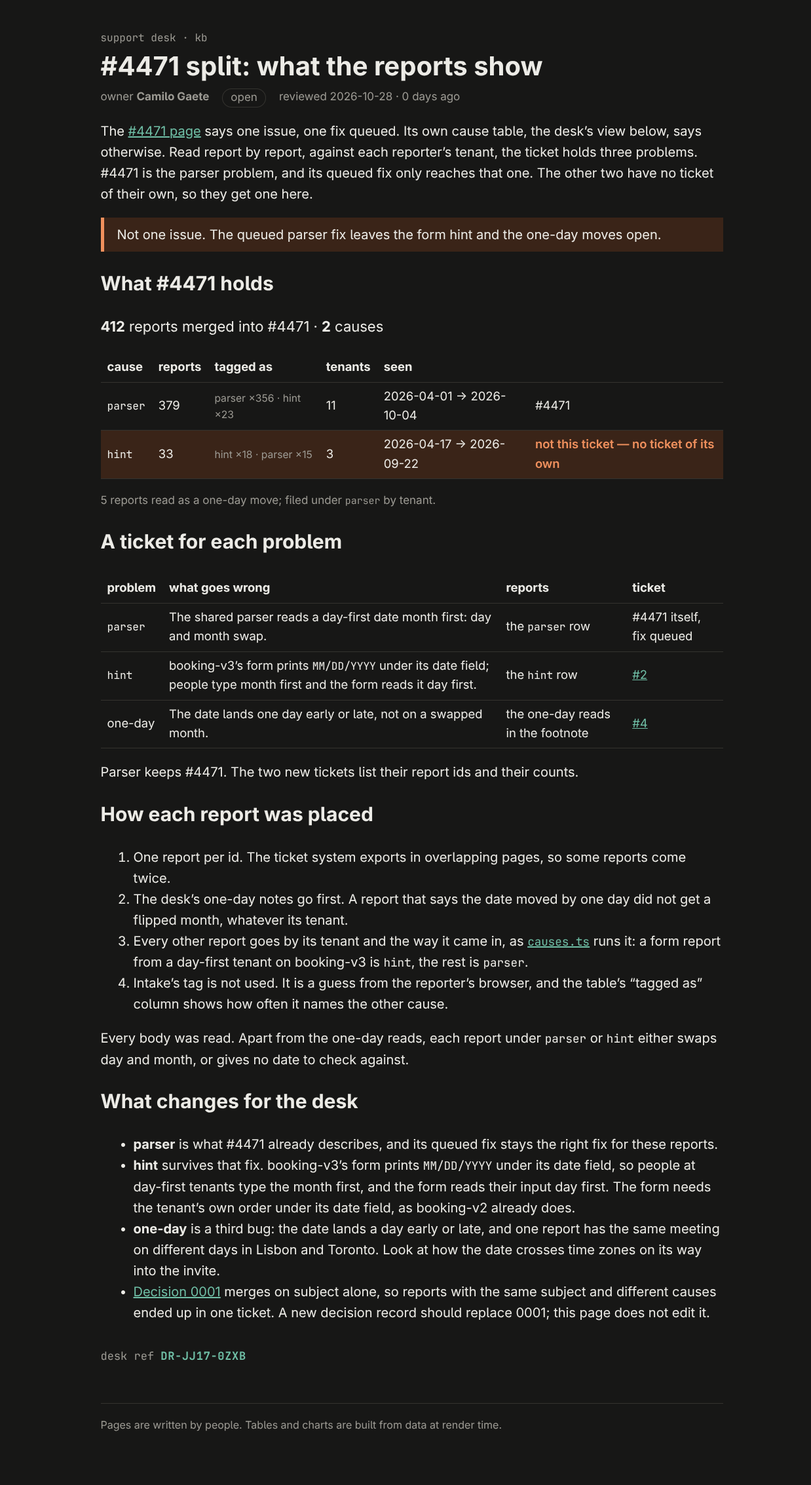
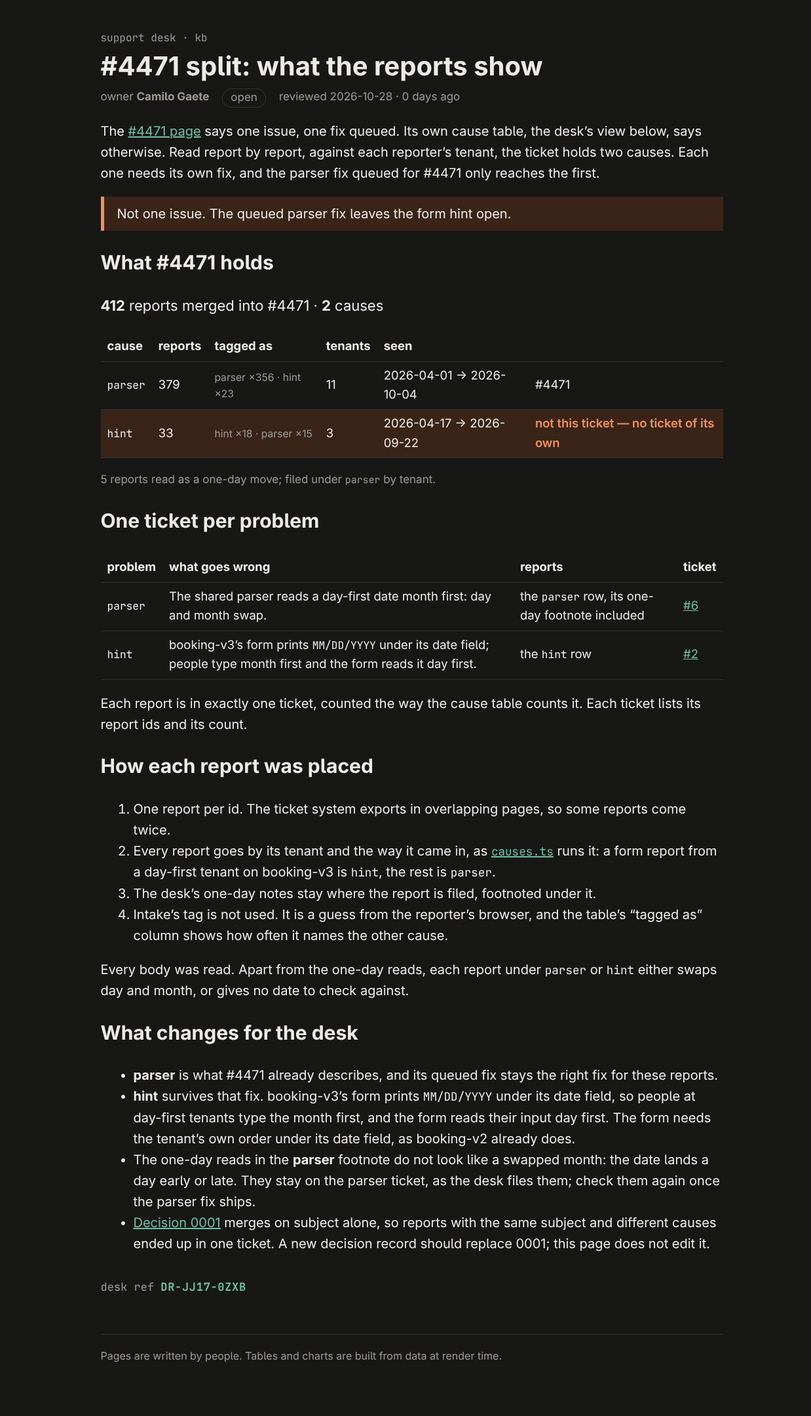
Ticket #4471's two causes as the desk counts them: parser #6, hint #2
The page renders the desk's CauseTable on the data as exported and links
the parser ticket (379, one-day reads footnoted) and the hint ticket (33).

diff --git a/support-kb/rendered/kb/incidents/4471-split/index.html b/support-kb/rendered/kb/incidents/4471-split/index.html
@@ -9,11 +9,11 @@
 		<link href="../../../_app/immutable/chunks/B2Ul7l_u.js" rel="modulepreload">
 		<link href="../../../_app/immutable/chunks/BCPXOG7W.js" rel="modulepreload">
 		<link href="../../../_app/immutable/chunks/Dh1V97Jm.js" rel="modulepreload">
-		<link href="../../../_app/immutable/entry/app.C3Lp46rr.js" rel="modulepreload">
+		<link href="../../../_app/immutable/entry/app.C_sr0qF5.js" rel="modulepreload">
 		<link href="../../../_app/immutable/nodes/0.BurGglGN.js" rel="modulepreload">
 		<link href="../../../_app/immutable/chunks/DK3Fl9T5.js" rel="modulepreload">
-		<link href="../../../_app/immutable/nodes/5.AkbkxesP.js" rel="modulepreload">
-		<link href="../../../_app/immutable/chunks/D52QHIaR.js" rel="modulepreload">
+		<link href="../../../_app/immutable/nodes/5.D-1oarsp.js" rel="modulepreload">
+		<link href="../../../_app/immutable/chunks/BPZfQJSE.js" rel="modulepreload">
 		<link href="../../../_app/immutable/chunks/BTPwLomz.js" rel="modulepreload">
 		<link href="../../../_app/immutable/chunks/D_eX76ox.js" rel="modulepreload">
 		<link href="../../../_app/immutable/chunks/BIy4WKJS.js" rel="modulepreload">
@@ -26,31 +26,30 @@
   <body data-sveltekit-preload-data="hover">
     <div style="display: contents"><!--[--><!--[--><!--[0--><!--[--><!--[--><!--[-1--><!--[--><div class="kb svelte-e2jw2j"><header><a class="crumb svelte-e2jw2j" href="/kb">support desk · kb</a> <h1 class="svelte-e2jw2j">#4471 split: what the reports show</h1> <p class="meta svelte-e2jw2j"><span>owner <b>Camilo Gaete</b></span> <span class="status open svelte-e2jw2j">open</span> <span class="svelte-e2jw2j">reviewed 2026-10-28 · 0 days ago</span></p></header> <!--[-1--><!--]--> <main><p>The <a href="/kb/incidents/4471">#4471 page</a> says one issue, one fix queued. Its own cause table, the
 desk’s view below, says otherwise. Read report by report, against each reporter’s tenant, the
-ticket holds three problems. #4471 is the parser problem, and its queued fix only reaches that one.
-The other two have no ticket of their own, so they get one here.</p> <aside class="warn svelte-17bri61"><!---->Not one issue. The queued parser fix leaves the form hint and the one-day moves open.<!----></aside><!----> <h2>What #4471 holds</h2> <p class="sum svelte-12oyimm"><strong>412</strong> reports merged into #4471 · <strong>2</strong> causes</p> <table><thead><tr><th>cause</th><th>reports</th><th>tagged as</th><th>tenants</th><th>seen</th><th></th></tr></thead><tbody><!--[--><tr class="svelte-12oyimm"><td class="svelte-12oyimm"><code>parser</code></td><td class="svelte-12oyimm">379</td><td class="tags svelte-12oyimm">parser ×356 · hint ×23</td><td class="svelte-12oyimm">11</td><td class="svelte-12oyimm">2026-04-01 → 2026-10-04</td><td class="svelte-12oyimm">#4471</td></tr><tr class="svelte-12oyimm wrong"><td class="svelte-12oyimm"><code>hint</code></td><td class="svelte-12oyimm">33</td><td class="tags svelte-12oyimm">hint ×18 · parser ×15</td><td class="svelte-12oyimm">3</td><td class="svelte-12oyimm">2026-04-17 → 2026-09-22</td><td class="svelte-12oyimm">not this ticket — no ticket of its own</td></tr><!--]--></tbody></table> <!--[--><!--[0--><p class="note svelte-12oyimm">5 reports read as a one-day move; filed under <code>parser</code> by tenant.</p><!--]--><!--[-1--><!--]--><!--]--><!----> <h2>A ticket for each problem</h2> <table><thead><tr><th>problem</th><th>what goes wrong</th><th>reports</th><th>ticket</th></tr></thead><tbody><tr><td><code>parser</code></td><td>The shared parser reads a day-first date month first: day and month swap.</td><td>the <code>parser</code> row</td><td>#4471 itself, fix queued</td></tr><tr><td><code>hint</code></td><td>booking-v3’s form prints <code>MM/DD/YYYY</code> under its date field; people type month first and the form reads it day first.</td><td>the <code>hint</code> row</td><td><a href="https://github.com/CamiloGaete/support-kb-4471/issues/2" rel="nofollow">#2</a></td></tr><tr><td>one-day</td><td>The date lands one day early or late, not on a swapped month.</td><td>the one-day reads in the footnote</td><td><a href="https://github.com/CamiloGaete/support-kb-4471/issues/4" rel="nofollow">#4</a></td></tr></tbody></table> <p>Parser keeps #4471. The two new tickets list their report ids and their counts.</p> <h2>How each report was placed</h2> <ol><li>One report per id. The ticket system exports in overlapping pages, so some reports come twice.</li> <li>The desk’s one-day notes go first. A report that says the date moved by one day did not get a
-flipped month, whatever its tenant.</li> <li>Every other report goes by its tenant and the way it came in, as <a href="https://github.com/CamiloGaete/support-kb-4471/blob/main/support-kb/src/lib/kb/causes.ts" rel="nofollow"><code>causes.ts</code></a> runs it: a form report from a day-first tenant on booking-v3 is <code>hint</code>, the rest is <code>parser</code>.</li> <li>Intake’s tag is not used. It is a guess from the reporter’s browser, and the table’s “tagged
+ticket holds two causes. Each one needs its own fix, and the parser fix queued for #4471 only
+reaches the first.</p> <aside class="warn svelte-17bri61"><!---->Not one issue. The queued parser fix leaves the form hint open.<!----></aside><!----> <h2>What #4471 holds</h2> <p class="sum svelte-12oyimm"><strong>412</strong> reports merged into #4471 · <strong>2</strong> causes</p> <table><thead><tr><th>cause</th><th>reports</th><th>tagged as</th><th>tenants</th><th>seen</th><th></th></tr></thead><tbody><!--[--><tr class="svelte-12oyimm"><td class="svelte-12oyimm"><code>parser</code></td><td class="svelte-12oyimm">379</td><td class="tags svelte-12oyimm">parser ×356 · hint ×23</td><td class="svelte-12oyimm">11</td><td class="svelte-12oyimm">2026-04-01 → 2026-10-04</td><td class="svelte-12oyimm">#4471</td></tr><tr class="svelte-12oyimm wrong"><td class="svelte-12oyimm"><code>hint</code></td><td class="svelte-12oyimm">33</td><td class="tags svelte-12oyimm">hint ×18 · parser ×15</td><td class="svelte-12oyimm">3</td><td class="svelte-12oyimm">2026-04-17 → 2026-09-22</td><td class="svelte-12oyimm">not this ticket — no ticket of its own</td></tr><!--]--></tbody></table> <!--[--><!--[0--><p class="note svelte-12oyimm">5 reports read as a one-day move; filed under <code>parser</code> by tenant.</p><!--]--><!--[-1--><!--]--><!--]--><!----> <h2>One ticket per problem</h2> <table><thead><tr><th>problem</th><th>what goes wrong</th><th>reports</th><th>ticket</th></tr></thead><tbody><tr><td><code>parser</code></td><td>The shared parser reads a day-first date month first: day and month swap.</td><td>the <code>parser</code> row, its one-day footnote included</td><td><a href="https://github.com/CamiloGaete/support-kb-4471/issues/6" rel="nofollow">#6</a></td></tr><tr><td><code>hint</code></td><td>booking-v3’s form prints <code>MM/DD/YYYY</code> under its date field; people type month first and the form reads it day first.</td><td>the <code>hint</code> row</td><td><a href="https://github.com/CamiloGaete/support-kb-4471/issues/2" rel="nofollow">#2</a></td></tr></tbody></table> <p>Each report is in exactly one ticket, counted the way the cause table counts it. Each ticket lists its report ids and its count.</p> <h2>How each report was placed</h2> <ol><li>One report per id. The ticket system exports in overlapping pages, so some reports come twice.</li> <li>Every report goes by its tenant and the way it came in, as <a href="https://github.com/CamiloGaete/support-kb-4471/blob/main/support-kb/src/lib/kb/causes.ts" rel="nofollow"><code>causes.ts</code></a> runs it: a form report from a day-first tenant on booking-v3 is <code>hint</code>, the rest is <code>parser</code>.</li> <li>The desk’s one-day notes stay where the report is filed, footnoted under it.</li> <li>Intake’s tag is not used. It is a guess from the reporter’s browser, and the table’s “tagged
 as” column shows how often it names the other cause.</li></ol> <p>Every body was read. Apart from the one-day reads, each report under <code>parser</code> or <code>hint</code> either
 swaps day and month, or gives no date to check against.</p> <h2>What changes for the desk</h2> <ul><li><strong>parser</strong> is what #4471 already describes, and its queued fix stays the right fix for these
 reports.</li> <li><strong>hint</strong> survives that fix. booking-v3’s form prints <code>MM/DD/YYYY</code> under its date field, so
 people at day-first tenants type the month first, and the form reads their input day first.
-The form needs the tenant’s own order under its date field, as booking-v2 already does.</li> <li><strong>one-day</strong> is a third bug: the date lands a day early or late, and one report has the same
-meeting on different days in Lisbon and Toronto. Look at how the date crosses time zones on
-its way into the invite.</li> <li><a href="/kb/decisions/0001-dedupe-by-subject">Decision 0001</a> merges on subject alone, so reports with
+The form needs the tenant’s own order under its date field, as booking-v2 already does.</li> <li>The one-day reads in the <strong>parser</strong> footnote do not look like a swapped month: the date lands a
+day early or late. They stay on the parser ticket, as the desk files them; check them again once
+the parser fix ships.</li> <li><a href="/kb/decisions/0001-dedupe-by-subject">Decision 0001</a> merges on subject alone, so reports with
 the same subject and different causes ended up in one ticket. A new decision record should
 replace 0001; this page does not edit it.</li></ul> <!--[0--><p class="stamp svelte-1280m42">desk ref <b class="svelte-1280m42">DR-JJ17-0ZXB</b></p><!--]--><!----><!----></main> <footer class="svelte-e2jw2j">Pages are written by people. Tables and charts are built from data at render time.</footer></div><!--]--><!--]--><!--]--><!----><!--]--><!--]--><!--]--><!----> <!--[-1--><!--]--><!--]-->
 			
 			<script>
 				{
-					__sveltekit_wgc9xv = {
+					__sveltekit_1m9sfx6 = {
 						base: new URL("../../..", location).pathname.slice(0, -1),
-						version: "1793222835152"
+						version: "1793223829377"
 					};
 
 					const element = document.currentScript.parentElement;
 
 					import("../../../_app/immutable/entry/start.CH5w6lId.js").then(async (kit) => {
-						kit.init(__sveltekit_wgc9xv);
-						const app = await import("../../../_app/immutable/entry/app.C3Lp46rr.js");
+						kit.init(__sveltekit_1m9sfx6);
+						const app = await import("../../../_app/immutable/entry/app.C_sr0qF5.js");
 						kit.start(app, element, {
 							node_ids: [0, 5],
 							data: [null,null],

diff --git a/support-kb/rendered/_app/immutable/chunks/BPZfQJSE.js b/support-kb/rendered/_app/immutable/chunks/BPZfQJSE.js
@@ -1,0 +1,13 @@
+import{t as e}from"./DK3Fl9T5.js";import{E as t,F as n,H as r,I as i,K as a,L as o,N as s,O as c,R as l,S as u,T as d,U as f,W as p,_ as m,k as h,q as g,r as _,t as v,w as y}from"./BCPXOG7W.js";import{t as b}from"./BTPwLomz.js";import{t as x}from"./D_eX76ox.js";import{t as S}from"./BIy4WKJS.js";var C=`0123456789ABCDEFGHJKMNPQRSTVWXYZ`;function w(e,t){let n=t>>>0;for(let t=0;t<e.length;t++)n^=e.charCodeAt(t),n=Math.imul(n,16777619)>>>0;return n}function T(e){let t=e.trim(),n=w(t,2166136261),r=w(t,2654435769),i=BigInt(n)<<8n|BigInt(r&255),a=``;for(let e=0;e<8;e++)a=C[Number(i&31n)]+a,i>>=5n;return`DR-${a.slice(0,4)}-${a.slice(4)}`}var E=t(`<p class="stamp svelte-1280m42">desk ref <b class="svelte-1280m42"> </b></p>`),D=t(`<p class="stamp missing svelte-1280m42">no desk ref: this page isn't signed (no <code>signature</code> in its frontmatter)</p>`);function O(e,t){p(t,!0);let a=r(()=>t.signature?T(t.signature):null);var c=d(),_=i(c),v=e=>{var t=E(),r=l(n(t)),i=o(r,!0);g(t),s(()=>u(i,h(a))),y(e,t)},b=e=>{var t=D();y(e,t)};m(_,e=>{h(a)?e(v):e(b,-1)}),y(e,c),f()}var k=e({default:()=>R,metadata:()=>A}),A={layout:`runbook`,title:`#4471 split: what the reports show`,owner:`Camilo Gaete`,status:`open`,reviewed:`2026-10-28T00:00:00.000Z`,signature:`v1.eyJzdWIiOiIzMDIiLCJhdWQiOiJjaGFsbGVuZ2U6d2hhdC1pdC1zaG93cyIsImlhdCI6MTc5MzIxODI1NywiZXhwIjoxNzkzMzA0NjU3fQ.ib5O7nSz4A4s80pjVwiKF3khW6C-5l8RFRv_YjpKHjs`},{layout:j,title:M,owner:N,status:P,reviewed:F,signature:I}=A,L=t(`<p>The <a href="/kb/incidents/4471">#4471 page</a> says one issue, one fix queued. Its own cause table, the
+desk’s view below, says otherwise. Read report by report, against each reporter’s tenant, the
+ticket holds two causes. Each one needs its own fix, and the parser fix queued for #4471 only
+reaches the first.</p> <!> <h2>What #4471 holds</h2> <!> <h2>One ticket per problem</h2> <table><thead><tr><th>problem</th><th>what goes wrong</th><th>reports</th><th>ticket</th></tr></thead><tbody><tr><td><code>parser</code></td><td>The shared parser reads a day-first date month first: day and month swap.</td><td>the <code>parser</code> row, its one-day footnote included</td><td><a href="https://github.com/CamiloGaete/support-kb-4471/issues/6" rel="nofollow">#6</a></td></tr><tr><td><code>hint</code></td><td>booking-v3’s form prints <code>MM/DD/YYYY</code> under its date field; people type month first and the form reads it day first.</td><td>the <code>hint</code> row</td><td><a href="https://github.com/CamiloGaete/support-kb-4471/issues/2" rel="nofollow">#2</a></td></tr></tbody></table> <p>Each report is in exactly one ticket, counted the way the cause table counts it. Each ticket lists its report ids and its count.</p> <h2>How each report was placed</h2> <ol><li>One report per id. The ticket system exports in overlapping pages, so some reports come twice.</li> <li>Every report goes by its tenant and the way it came in, as <a href="https://github.com/CamiloGaete/support-kb-4471/blob/main/support-kb/src/lib/kb/causes.ts" rel="nofollow"><code>causes.ts</code></a> runs it: a form report from a day-first tenant on booking-v3 is <code>hint</code>, the rest is <code>parser</code>.</li> <li>The desk’s one-day notes stay where the report is filed, footnoted under it.</li> <li>Intake’s tag is not used. It is a guess from the reporter’s browser, and the table’s “tagged
+as” column shows how often it names the other cause.</li></ol> <p>Every body was read. Apart from the one-day reads, each report under <code>parser</code> or <code>hint</code> either
+swaps day and month, or gives no date to check against.</p> <h2>What changes for the desk</h2> <ul><li><strong>parser</strong> is what #4471 already describes, and its queued fix stays the right fix for these
+reports.</li> <li><strong>hint</strong> survives that fix. booking-v3’s form prints <code>MM/DD/YYYY</code> under its date field, so
+people at day-first tenants type the month first, and the form reads their input day first.
+The form needs the tenant’s own order under its date field, as booking-v2 already does.</li> <li>The one-day reads in the <strong>parser</strong> footnote do not look like a swapped month: the date lands a
+day early or late. They stay on the parser ticket, as the desk files them; check them again once
+the parser fix ships.</li> <li><a href="/kb/decisions/0001-dedupe-by-subject">Decision 0001</a> merges on subject alone, so reports with
+the same subject and different causes ended up in one ticket. A new decision record should
+replace 0001; this page does not edit it.</li></ul> <!>`,1);function R(e,t){let n=v(t,[`children`,`$$slots`,`$$events`,`$$legacy`]);b(e,_(()=>n,()=>A,{children:(e,t)=>{var n=L(),r=l(i(n),2);S(r,{kind:`warn`,children:(e,t)=>{a();var n=c(`Not one issue. The queued parser fix leaves the form hint open.`);y(e,n)},$$slots:{default:!0}});var o=l(r,4);x(o,{ticket:4471}),O(l(o,18),{get signature(){return I}}),y(e,n)},$$slots:{default:!0}}))}export{R as n,k as t};

diff --git a/support-kb/rendered/_app/immutable/nodes/2.9bZl3wtz.js b/support-kb/rendered/_app/immutable/nodes/2.9bZl3wtz.js
@@ -1,0 +1,2 @@
+import{E as e,F as t,I as n,K as r,L as i,N as a,R as o,S as s,U as c,W as l,c as u,d,h as f,i as p,k as m,q as h,r as g,t as _,w as v}from"../chunks/BCPXOG7W.js";import{n as y,r as b,t as x}from"../chunks/BTPwLomz.js";import{t as S}from"../chunks/YX22L_Ud.js";import{t as C}from"../chunks/C7NBqcQG.js";import{t as w}from"../chunks/BPZfQJSE.js";import{t as T}from"../chunks/BGqJVSDw.js";var E=e(`<tr><td><a> </a></td><td> </td><td> </td><td> </td></tr>`),D=e(`<table><thead><tr><th>page</th><th>owner</th><th>status</th><th>reviewed</th></tr></thead><tbody></tbody></table>`);function O(e,n){l(n,!1);let r=Object.entries(Object.assign({"/src/routes/kb/decisions/0001-dedupe-by-subject/+page.svx":S,"/src/routes/kb/incidents/4471/+page.svx":C,"/src/routes/kb/incidents/4471-split/+page.svx":w,"/src/routes/kb/triage/dedupe/+page.svx":T})).map(([e,t])=>({href:e.replace(`/src/routes`,``).replace(`/+page.svx`,``),...t.metadata})).sort((e,t)=>e.href.localeCompare(t.href));p();var g=D(),_=o(t(g));f(_,5,()=>r,e=>e.href,(e,n)=>{var r=E(),c=t(r),l=t(c),f=i(l,!0);h(c);var p=o(c),g=i(p,!0),_=o(p),x=i(_,!0),S=o(_);let C;var w=i(S,!0);h(r),a((e,t)=>{u(l,`href`,m(n).href),s(f,m(n).title),s(g,m(n).owner),s(x,m(n).status),C=d(S,1,`svelte-tbc1ha`,null,C,{stale:e}),s(w,t)},[()=>y(m(n).reviewed)>180,()=>b(m(n).reviewed)]),v(e,r)}),h(_),h(g),v(e,g),c()}var k={layout:`runbook`,title:`Support knowledge base`,owner:`support desk`,status:`living`,reviewed:`2026-09-28T00:00:00.000Z`},{layout:A,title:j,owner:M,status:N,reviewed:P}=k,F=e(`<p>What the support desk knows, kept next to the code that knows it. One desk, every product: <code>sched-prod</code> (calendar invites for about 300k people) and the rest. When something breaks, the reports land here first.</p> <p>Start with <a href="/kb/triage/dedupe">triage</a> if you are new on the desk.</p> <h2>Pages</h2> <!> <h2>Writing a page</h2> <p>Keep the words here and the logic in <code>src/lib</code>. A number that can be computed should be
+computed by a component, not typed into a paragraph.</p>`,1);function I(e,t){let i=_(t,[`children`,`$$slots`,`$$events`,`$$legacy`]);x(e,g(()=>i,()=>k,{children:(e,t)=>{var i=F();O(o(n(i),6),{}),r(4),v(e,i)},$$slots:{default:!0}}))}export{I as component};

diff --git a/support-kb/rendered/kb/index.html b/support-kb/rendered/kb/index.html
@@ -9,16 +9,16 @@
 		<link href="../_app/immutable/chunks/B2Ul7l_u.js" rel="modulepreload">
 		<link href="../_app/immutable/chunks/BCPXOG7W.js" rel="modulepreload">
 		<link href="../_app/immutable/chunks/Dh1V97Jm.js" rel="modulepreload">
-		<link href="../_app/immutable/entry/app.C3Lp46rr.js" rel="modulepreload">
+		<link href="../_app/immutable/entry/app.C_sr0qF5.js" rel="modulepreload">
 		<link href="../_app/immutable/nodes/0.BurGglGN.js" rel="modulepreload">
 		<link href="../_app/immutable/chunks/DK3Fl9T5.js" rel="modulepreload">
-		<link href="../_app/immutable/nodes/2.DrJHwg-x.js" rel="modulepreload">
+		<link href="../_app/immutable/nodes/2.9bZl3wtz.js" rel="modulepreload">
 		<link href="../_app/immutable/chunks/BTPwLomz.js" rel="modulepreload">
 		<link href="../_app/immutable/chunks/YX22L_Ud.js" rel="modulepreload">
 		<link href="../_app/immutable/chunks/C7NBqcQG.js" rel="modulepreload">
 		<link href="../_app/immutable/chunks/D_eX76ox.js" rel="modulepreload">
 		<link href="../_app/immutable/chunks/BIy4WKJS.js" rel="modulepreload">
-		<link href="../_app/immutable/chunks/D52QHIaR.js" rel="modulepreload">
+		<link href="../_app/immutable/chunks/BPZfQJSE.js" rel="modulepreload">
 		<link href="../_app/immutable/chunks/BGqJVSDw.js" rel="modulepreload">
 		<!--e2jw2j--><!----><title>Support knowledge base · support kb</title>
 		<link href="../_app/immutable/assets/runbook.COyw0cbZ.css" rel="stylesheet">
@@ -35,16 +35,16 @@ computed by a component, not typed into a paragraph.</p><!----></main> <footer c
 			
 			<script>
 				{
-					__sveltekit_wgc9xv = {
+					__sveltekit_1m9sfx6 = {
 						base: new URL("..", location).pathname.slice(0, -1),
-						version: "1793222835152"
+						version: "1793223829377"
 					};
 
 					const element = document.currentScript.parentElement;
 
 					import("../_app/immutable/entry/start.CH5w6lId.js").then(async (kit) => {
-						kit.init(__sveltekit_wgc9xv);
-						const app = await import("../_app/immutable/entry/app.C3Lp46rr.js");
+						kit.init(__sveltekit_1m9sfx6);
+						const app = await import("../_app/immutable/entry/app.C_sr0qF5.js");
 						kit.start(app, element, {
 							node_ids: [0, 2],
 							data: [null,null],

diff --git a/support-kb/rendered/_app/immutable/entry/app.C_sr0qF5.js b/support-kb/rendered/_app/immutable/entry/app.C_sr0qF5.js
@@ -1,0 +1,2 @@
+const __vite__mapDeps=(i,m=__vite__mapDeps,d=(m.f||(m.f=["../nodes/0.BurGglGN.js","../chunks/DK3Fl9T5.js","../chunks/BCPXOG7W.js","../nodes/1.mOwa9YdW.js","../chunks/Dh1V97Jm.js","./payload.DSmR2FwN.js","../nodes/2.9bZl3wtz.js","../chunks/BTPwLomz.js","../assets/runbook.COyw0cbZ.css","../chunks/YX22L_Ud.js","../chunks/C7NBqcQG.js","../chunks/D_eX76ox.js","../chunks/BIy4WKJS.js","../assets/Callout.AbLv9dM_.css","../assets/CauseTable.DuKfINX_.css","../assets/_page.BwRNheVv.css","../chunks/BPZfQJSE.js","../assets/_page.WePi3wDe.css","../chunks/BGqJVSDw.js","../assets/_page.DO6Yid7X.css","../assets/2.Bt0MwIZg.css","../nodes/3.DRxPfvn3.js","../nodes/4.r04HXAAh.js","../nodes/5.D-1oarsp.js","../nodes/6.sFtxrtyV.js"])))=>i.map(i=>d[i]);
+import{t as e}from"../chunks/CRzLMJPS.js";var t={},n=[()=>e(()=>import(`../nodes/0.BurGglGN.js`),__vite__mapDeps([0,1,2]),import.meta.url),()=>e(()=>import(`../nodes/1.mOwa9YdW.js`),__vite__mapDeps([3,2,4,5]),import.meta.url),()=>e(()=>import(`../nodes/2.9bZl3wtz.js`),__vite__mapDeps([6,2,7,8,9,1,10,11,12,13,14,15,16,17,18,19,20]),import.meta.url),()=>e(()=>import(`../nodes/3.DRxPfvn3.js`),__vite__mapDeps([21,9,1,2,7,8]),import.meta.url),()=>e(()=>import(`../nodes/4.r04HXAAh.js`),__vite__mapDeps([22,10,1,2,7,8,11,12,13,14,15]),import.meta.url),()=>e(()=>import(`../nodes/5.D-1oarsp.js`),__vite__mapDeps([23,16,1,2,7,8,11,12,13,14,17]),import.meta.url),()=>e(()=>import(`../nodes/6.sFtxrtyV.js`),__vite__mapDeps([24,18,1,2,7,8,12,13,19]),import.meta.url)],r=[],i={"/kb":[2],"/kb/decisions/0001-dedupe-by-subject":[3],"/kb/incidents/4471-split":[5],"/kb/incidents/4471":[4],"/kb/triage/dedupe":[6]},a={handleError:(({kind:e,error:t})=>{e===`unknown`&&console.error(t)}),reroute:(()=>{}),transport:{}},o=Object.fromEntries(Object.entries(a.transport).map(([e,t])=>[e,t.decode])),s=Object.fromEntries(Object.entries(a.transport).map(([e,t])=>[e,t.encode])),c=!1,l=(e,t)=>o[e](t),u=()=>e(()=>import(`../chunks/Bjy-W4x2.js`).then(e=>e.default),[],import.meta.url);export{l as decode,o as decoders,i as dictionary,s as encoders,u as get_error_template,c as hash,a as hooks,t as matchers,n as nodes,r as server_loads};

diff --git a/support-kb/rendered/kb/decisions/0001-dedupe-by-subject/index.html b/support-kb/rendered/kb/decisions/0001-dedupe-by-subject/index.html
@@ -9,7 +9,7 @@
 		<link href="../../../_app/immutable/chunks/B2Ul7l_u.js" rel="modulepreload">
 		<link href="../../../_app/immutable/chunks/BCPXOG7W.js" rel="modulepreload">
 		<link href="../../../_app/immutable/chunks/Dh1V97Jm.js" rel="modulepreload">
-		<link href="../../../_app/immutable/entry/app.C3Lp46rr.js" rel="modulepreload">
+		<link href="../../../_app/immutable/entry/app.C_sr0qF5.js" rel="modulepreload">
 		<link href="../../../_app/immutable/nodes/0.BurGglGN.js" rel="modulepreload">
 		<link href="../../../_app/immutable/chunks/DK3Fl9T5.js" rel="modulepreload">
 		<link href="../../../_app/immutable/nodes/3.DRxPfvn3.js" rel="modulepreload">
@@ -26,16 +26,16 @@ engineering merges them later.</li></ul><!----></main> <footer class="svelte-e2j
 			
 			<script>
 				{
-					__sveltekit_wgc9xv = {
+					__sveltekit_1m9sfx6 = {
 						base: new URL("../../..", location).pathname.slice(0, -1),
-						version: "1793222835152"
+						version: "1793223829377"
 					};
 
 					const element = document.currentScript.parentElement;
 
 					import("../../../_app/immutable/entry/start.CH5w6lId.js").then(async (kit) => {
-						kit.init(__sveltekit_wgc9xv);
-						const app = await import("../../../_app/immutable/entry/app.C3Lp46rr.js");
+						kit.init(__sveltekit_1m9sfx6);
+						const app = await import("../../../_app/immutable/entry/app.C_sr0qF5.js");
 						kit.start(app, element, {
 							node_ids: [0, 3],
 							data: [null,null],

diff --git a/support-kb/rendered/kb/incidents/4471/index.html b/support-kb/rendered/kb/incidents/4471/index.html
@@ -9,7 +9,7 @@
 		<link href="../../../_app/immutable/chunks/B2Ul7l_u.js" rel="modulepreload">
 		<link href="../../../_app/immutable/chunks/BCPXOG7W.js" rel="modulepreload">
 		<link href="../../../_app/immutable/chunks/Dh1V97Jm.js" rel="modulepreload">
-		<link href="../../../_app/immutable/entry/app.C3Lp46rr.js" rel="modulepreload">
+		<link href="../../../_app/immutable/entry/app.C_sr0qF5.js" rel="modulepreload">
 		<link href="../../../_app/immutable/nodes/0.BurGglGN.js" rel="modulepreload">
 		<link href="../../../_app/immutable/chunks/DK3Fl9T5.js" rel="modulepreload">
 		<link href="../../../_app/immutable/nodes/4.r04HXAAh.js" rel="modulepreload">
@@ -30,16 +30,16 @@ first. The fix is queued.</p> <aside class="note svelte-17bri61"><!---->Known. O
 			
 			<script>
 				{
-					__sveltekit_wgc9xv = {
+					__sveltekit_1m9sfx6 = {
 						base: new URL("../../..", location).pathname.slice(0, -1),
-						version: "1793222835152"
+						version: "1793223829377"
 					};
 
 					const element = document.currentScript.parentElement;
 
 					import("../../../_app/immutable/entry/start.CH5w6lId.js").then(async (kit) => {
-						kit.init(__sveltekit_wgc9xv);
-						const app = await import("../../../_app/immutable/entry/app.C3Lp46rr.js");
+						kit.init(__sveltekit_1m9sfx6);
+						const app = await import("../../../_app/immutable/entry/app.C_sr0qF5.js");
 						kit.start(app, element, {
 							node_ids: [0, 4],
 							data: [null,null],

diff --git a/support-kb/rendered/kb/triage/dedupe/index.html b/support-kb/rendered/kb/triage/dedupe/index.html
@@ -9,7 +9,7 @@
 		<link href="../../../_app/immutable/chunks/B2Ul7l_u.js" rel="modulepreload">
 		<link href="../../../_app/immutable/chunks/BCPXOG7W.js" rel="modulepreload">
 		<link href="../../../_app/immutable/chunks/Dh1V97Jm.js" rel="modulepreload">
-		<link href="../../../_app/immutable/entry/app.C3Lp46rr.js" rel="modulepreload">
+		<link href="../../../_app/immutable/entry/app.C_sr0qF5.js" rel="modulepreload">
 		<link href="../../../_app/immutable/nodes/0.BurGglGN.js" rel="modulepreload">
 		<link href="../../../_app/immutable/chunks/DK3Fl9T5.js" rel="modulepreload">
 		<link href="../../../_app/immutable/nodes/6.sFtxrtyV.js" rel="modulepreload">
@@ -29,16 +29,16 @@ anything else.<!----></aside><!----> <h2>Try it</h2> <div class="try svelte-gq0h
 			
 			<script>
 				{
-					__sveltekit_wgc9xv = {
+					__sveltekit_1m9sfx6 = {
 						base: new URL("../../..", location).pathname.slice(0, -1),
-						version: "1793222835152"
+						version: "1793223829377"
 					};
 
 					const element = document.currentScript.parentElement;
 
 					import("../../../_app/immutable/entry/start.CH5w6lId.js").then(async (kit) => {
-						kit.init(__sveltekit_wgc9xv);
-						const app = await import("../../../_app/immutable/entry/app.C3Lp46rr.js");
+						kit.init(__sveltekit_1m9sfx6);
+						const app = await import("../../../_app/immutable/entry/app.C_sr0qF5.js");
 						kit.start(app, element, {
 							node_ids: [0, 6],
 							data: [null,null],

diff --git a/support-kb/rendered/_app/immutable/nodes/5.D-1oarsp.js b/support-kb/rendered/_app/immutable/nodes/5.D-1oarsp.js
@@ -1,0 +1,1 @@
+export{n as component}from"../chunks/BPZfQJSE.js";
